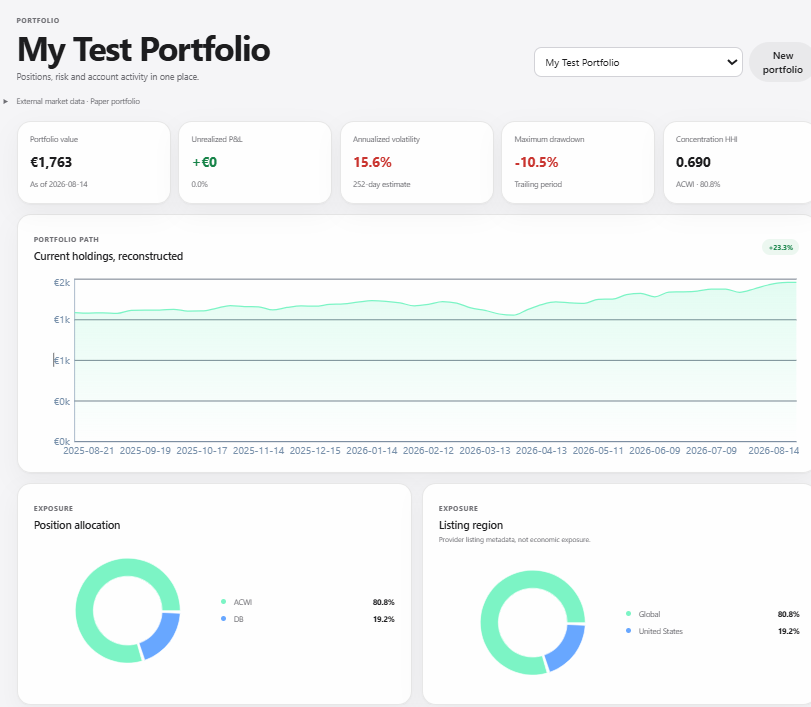
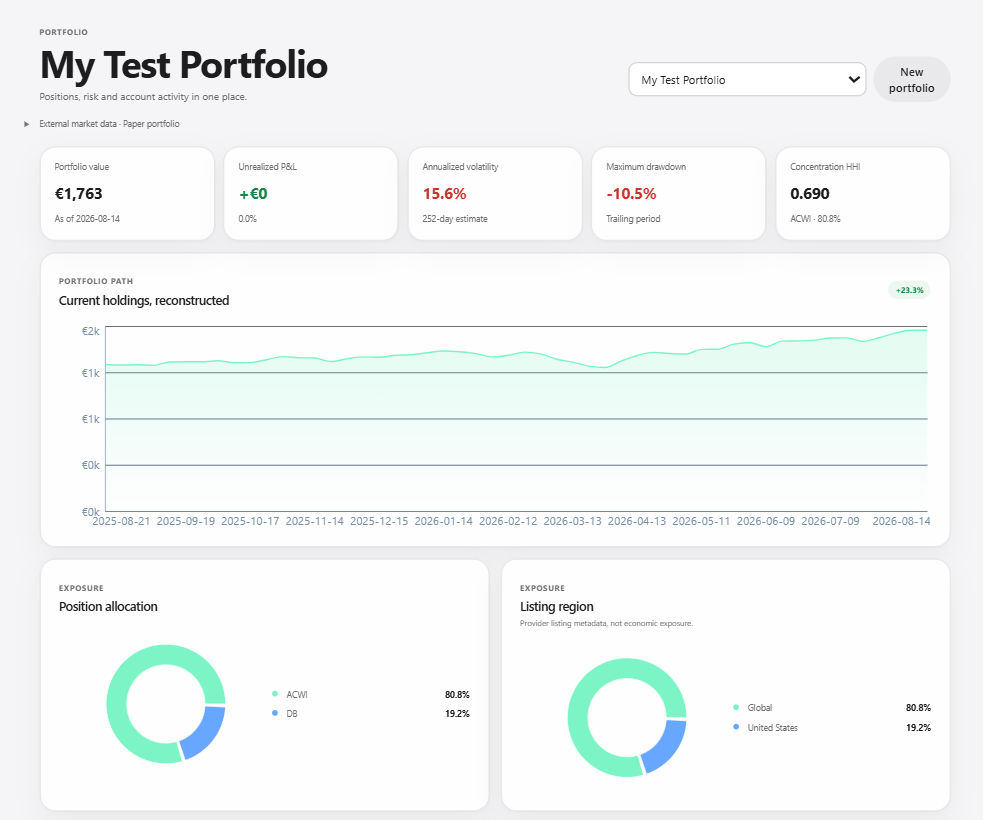
docs: structure product screenshots in README (#31)

diff --git a/README.md b/README.md
@@ -6,6 +6,8 @@ applied machine learning in one auditable system.
 
 ![Portfolio summary, key metrics, and value history](docs/assets/portfolio-overview.png)
 
+*Portfolio overview with linked holdings, performance history, and key analytics.*
+
 ## At a glance
 
 | Aspect | Summary |
@@ -37,11 +39,25 @@ applied machine learning in one auditable system.
 | ML lifecycle | Frozen evaluation sets, abstention metrics, feedback capture, immutable exports, candidate gates, explicit promotion, and rollback artifacts |
 | Delivery | Backend/frontend tests, GitHub Actions, multi-stage images, health checks, reverse proxy, and persistent Compose storage |
 
+## Product walkthrough
+
+### Instrument research and trading
+
 ![Instrument discovery, volatility forecast, and simulated order workflow](docs/assets/trading-and-forecast.png)
+
+*Instrument discovery combines current market data, volatility forecasts, and simulated orders.*
+
+### Portfolio risk analytics
 
 ![Portfolio risk score, dimensions, and principal risk drivers](docs/assets/risk-analytics.png)
 
+*Deterministic risk analytics separate measured market risk, diversification, and liquidity.*
+
+### Transaction intelligence
+
 ![Unified account activity and transaction classification review](docs/assets/transaction-classification.png)
+
+*Unified account activity with editable ML category suggestions and review status.*
 
 Financial metrics are calculated only by deterministic backend code. A future
 LLM may select tested tools and explain their output, but must never calculate
